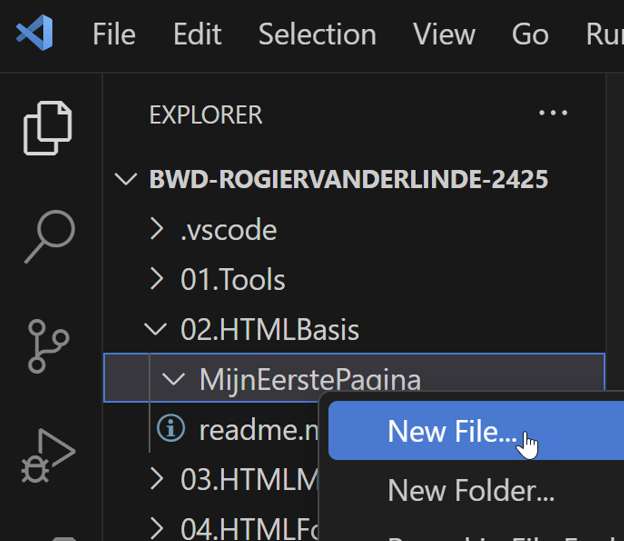
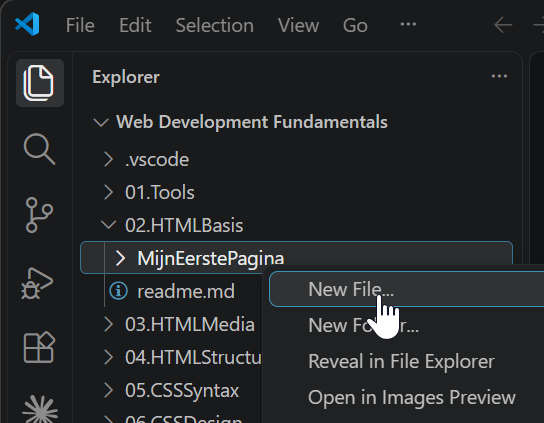
hoofdstuk 2 herwerkt

diff --git a/02_vscode.html b/02_vscode.html
@@ -74,53 +74,65 @@
          <li>ESLint</li>
          <li>HTML-validate</li>
          <li>htmltagwrap</li>
-         <li>Live Server</li>
+         <li>Live Preview</li>
          <li>Stylelint</li>
          <li>W3C Web Validator</li>
       </ol>
-      <p><img src="img/02_vscode/vscode extensies.png" alt="" class="w-400"></p>
+      <p><img src="img/02_vscode/vscode extensies.png" alt="" class="w-300"></p>
       <div class="tips" data-caption="☝🏾 let op">
          <p>
-            Deze extensies werken alleen als je ook de nodige node packages toevoegt aan je repository, zie <a href="02_vscode.html#packages-installeren">packages installeren</a>
+            Veel extensies werken alleen als je ook de nodige node packages toevoegt aan je repository, zie <a href="02_vscode.html#packages-installeren">packages installeren</a>
          </p>
       </div>
-      <h3>repository openen</h3>
+      <h3>github copilot verwijderen</h3>
+      <p>Github Copilot is een niet erg bruikbare AI-assistent (met een slechte rating), die je beter verwijdert:</p>
+      <p><img src="img/02_vscode/copilot-disable.png" alt="" class="w-700"></p>
+      <h3>werkmap openen</h3>
       <p>
-         Voor elk vak zul je een repository moeten maken, zie <a href="03_github.html#repository-opzetten">Repository opzetten</a>.
-         Als je oefeningen maakt, open je altijd eerst de <strong>volledige repository</strong> in VS Code. Het makkelijkste is via <strong>Verkenner</strong> of via <strong>Github Desktop</strong>:
+         Je opent nooit zomaar losse bestanden in VS code, maar een folder waarin je werkt &mdash; de <em class="em">werkmap</em> of <em class="em">working directory</em>. 
+         Voor elk vak zul je een <mark>boilerplate</mark> krijgen (te downloaden van Toledo): dit is een kant-en-klare mappenstructuur voor je oefeningen. 
+         Open altijd de <strong>volledige boilerplate</strong> in VS Code via het <em>File</em> menu: 
       </p>
       <figure>
-         <img src="img/02_vscode/repo openen verkenner.png" alt="" class="w-500">
-         <figcaption>methode 1: open via de rechtermuisknop in Verkenner</figcaption>
-      </figure>
-      <figure>
-         <img src="img/02_vscode/repo openen github desktop.png" alt="" class="w-700">
-         <figcaption>methode 2: open via Github Desktop</figcaption>
-      </figure>
-      <p>Je krijgt alle mappen te zien (screenshot voor Basic Web Development):</p>
-      <figure>
-         <img src="img/02_vscode/repo in vs code.png" alt="" class="w-700">
+         <img src="img/02_vscode/vs code open folder.png" alt="" class="w-400">
          <figcaption>alle mappen in VS Code</figcaption>
       </figure>
+      <p>
+         Je krijgt alle mappen te zien (screenshot voor Web Development Fundamentals). 
+         Uit veiligheid wordt de geopende folder niet zomaar vertrouwd. Maak deze folder trusted:
+      </p>
+      <figure>
+         <img src="img/02_vscode/trust folder.png" alt="" class="w-700">
+         <figcaption>folder vertrouwen</figcaption>
+      </figure>
+      <p>Je ziet tenslotte links alle submappen, samen met een paar configuratiebestanden:</p>
+      <figure>
+         <img src="img/02_vscode/vs code start.png" alt="" class="w-700">
+         <figcaption>folder vertrouwen</figcaption>
+      </figure>
+      <div class="tips" data-caption="☝🏾 opgelet">
+         <p>
+            De volledige mappenstructuur moet altijd zichtbaar zijn, anders kan je niet fatsoenlijk werken!
+         </p>
+      </div>
 
       <h3>packages installeren</h3>
       <p>
-         We hebben nu een aantal extensies als html-validate, stylelint en eslint geïnstalleerd.
-         Deze extensies hebben om te kunnen werken een aantal <mark>Node packages</mark> nodig. Dit zijn code libraries met specifieke functionaliteit.
-         Je repository bevat een bestand <strong>package.json</strong>, waarin alle nodige packages staan:
+         We hebben eerder een aantal extensies als html-validate, stylelint en eslint geïnstalleerd in VS Code.
+         Om te kunnen werken hebben ze een aantal <mark>Node packages</mark> nodig. Dit zijn code libraries met specifieke functionaliteit, die we zullen installeren in de working directory. 
+         Je boilerplate bevat een bestand <strong>package.json</strong>, waarin alle nodige packages opgelijst staan:
       </p>
-      <p><img src="img/03_github/package-json.png" alt="" class="w-500"></p>
-      <p>Installeer ze met het <code>npm install</code> commando in de Terminal (Terminal, new Terminal... of Shift-Ctrl-`). </p>
-      <p><img src="img/03_github/npm-install.png" alt="" class="w-700"></p>
-      <p>Opmerking: als je volgende foutmelding krijgt, run je eerst dit commando:</p>
-      <p><img src="img/03_github/running scripts foutmelding.jpg" alt="" class="w-800"></p>
-      <p>Het commando:</p>
+      <p><img src="img/02_vscode/package-json.png" alt="" class="w-500"></p>
+      <p>Open de Terminal (<em>Terminal</em>, <em>new Terminal...</em> of Shift-Ctrl-`), en installeer alle packages in je working directory met volgend commando:</p>
+      <pre class="language-cs prism-okaida"><code>npm install</code></pre>
+      <p>Het kan zijn dat je eerst volgende foutmelding krijgt:</p>
+      <p><img src="img/02_vscode/running scripts foutmelding.jpg" alt="" class="w-800"></p>
+      <p>Run dan dit commando, en voer daarna <code>npm install</code> opnieuw uit:</p>
       <pre class="language-cs prism-okaida"><code>Set-ExecutionPolicy -Scope CurrentUser -ExecutionPolicy RemoteSigned</code></pre>
+      <p>Samenvattende screenshot:</p>
+      <p><img src="img/02_vscode/npm install.png" alt="" class="w-800"></p>
       <p>Je ziet dat er een map <strong>node_modules</strong> bijgekomen is. Deze bevat alle packages uit package.json, plus alle packages die zij weer nodig hebben, de zgn. <mark>dependencies</mark>:</p>
-      <p><img src="img/03_github/node_modules.png" alt="" class="w-300"></p>
-      <p>Dit zijn er gemakkelijk een paar honderd! Dit zijn duizenden bestanden en tientallen megabytes die je eenvoudig kan herstellen door opnieuw <code>npm install</code> uit te voeren. We zullen de map <strong>node_modules</strong> daarom uitsluiten van versiebeheer (i.e. het wordt niet meegepushed naar Github.com) met deze regel in <strong>.gitignore</strong>:</p>
-      <p><img src="img/03_github/node_modules-ignore.png" alt="" class="w-250"></p>
-      <p>Je moet er alleen aan denken elke keer je een clone van de repository maakt (b.v. op een andere PC) opnieuw even <code>npm install</code> uit te voeren om de map <strong>node_modules</strong> te herstellen.</p>
+      <p><img src="img/02_vscode/node_modules.png" alt="" class="w-300"></p>
       <h3>uitleg configuratiebestanden</h3>
       <p>In de root van de boilerplate komen allerhande configuratiebestanden voor.</p>
       <p><img src="img/02_vscode/vscode configuratie.png" alt="" class="w-300"></p>
@@ -140,7 +152,7 @@
 
       <h2>Hoe oefeningen maken</h2>
       <p>Open altijd eerst je volledige repository in VS Code, zie <a href="#repository-openen">repository openen</a></p>
-      <h3>stap 1: maak de oefening aan</h3>
+      <h3>oefening aanmaken</h3>
       <p>Eerst moet je weten om <strong>welke les</strong> en wat de <strong>naam van de oefening</strong> is. Dit vind je terug in de opgave:</p>
       <figure>
          <img src="img/02_vscode/les en oefening.png" alt="" class="w-500">
@@ -173,7 +185,7 @@
          <img src="img/02_vscode/stap5.png" alt="" class="w-600">
          <figcaption>...en geef de pagina een titel</figcaption>
       </figure>
-      <h3>stap 2: werk de oefening uit</h3>
+      <h3>oefening uitwerken</h3>
       <p>Voeg nu alle mappen en bestanden toe die je nodig hebt voor deze oefening, typisch:</p>
       <ul>
          <li><em>img</em>: afbeeldingen (meestal meegegeven met de opgave)</li>
@@ -185,28 +197,33 @@
       </ul>
       <p>Werk tenslotte de opgave uit. Indien nodig, maak je nog extra submappen aan, b.v. voor afbeeldingen, CSS, fonts enz... VS Code herkent een git repository en geeft in kleur aan welke veranderingen er zijn sinds de laatste commit:</p>
       <figure>
-         <img src="img/03_github/vscode integratie.png" alt="" class="w-800">
+         <img src="img/02_vscode/vscode integratie.png" alt="" class="w-800">
       </figure>
-      <h3>stap 3: commit en push</h3>
-      <p>Open nu Github Desktop (zie <a href="03_github.html#commit-en-push">Commit en push</a>). Je ziet gelijkaardige kleurcodes met alle wijzigingen:</p>
+
+      <h3>live preview</h3>
+      <p>De <mark>Live Preview</mark> extensie opent je pagina in de browser; elke keer als je opslaat wordt de pagina automatisch bijgewerkt. Je vindt de knop rechtsboven (als een html pagina openstaat):</p>
       <figure>
-         <img src="img/03_github/github oefening commit.png" alt="" class="w-600">
+         <img src="img/02_vscode/live preview start.png" alt="" class="w-200">
+      </figure>
+      <p>De preview opent in een nieuw tabblad. Handiger is direct in de browser:</p>
+      <figure>
+         <img src="img/02_vscode/live preview extern.png" alt="" class="w-700">
+         <figcaption>correcte setup: code op je laptop, live server op een externe monitor</figcaption>
+      </figure>
+      <p>Je ziet je code en het resultaat dan apart, live gerefreshed:</p>
+      <figure>
+         <img src="img/02_vscode/live preview.png" alt="" class="w-700">
+         <figcaption>correcte setup: code op je laptop, live server op een externe monitor</figcaption>
       </figure>
       <p>
-         Geef een commit message, commit en push je de wijzigingen naar Github.com.
+         Standaard gebeurt de update elke toetsaanslag, wat hinderlijk kan zijn. 
+         Verander het bij instellingen (shortcut: <kbd>Ctrl ,</kbd>) zodat de update enkel bij het opslaan (shortcut: <kbd>Ctrl S</kbd>) gebeurt:
       </p>
       <figure>
-         <img src="img/02_vscode/commit push.png" alt="" class="w-1200">
-         <figcaption>commit mededeling, commit en push</figcaption>
+         <img src="img/02_vscode/live preview on save only.png" alt="" class="w-400">
+         <figcaption>correcte setup: code op je laptop, live server op een externe monitor</figcaption>
       </figure>
-      <p>Controleer zeker online op github.com eens of alles er goed op staat:</p>
-      <figure>
-         <img src="img/02_vscode/github online.png" alt="" class="w-600">
-      </figure>
-
-
-      <h2>Live previewen</h2>
-      <p>De <mark>Live Server</mark> opent je pagina in de browser; elke keer als je opslaat wordt de pagina automatisch bijgewerkt. Een voorbeeld van een correcte setup, met je code op je laptop en de live server op een externe monitor:</p>
+      <p>Een voorbeeld van een correcte setup, met je code op je laptop en de live server op een externe monitor:</p>
       <figure>
          <img src="img/02_vscode/laptop en monitor.jpg" alt="" class="w-800">
          <figcaption>correcte setup: code op je laptop, live server op een externe monitor</figcaption>

diff --git a/01_browser.html b/01_browser.html
@@ -61,7 +61,6 @@
          <li><a href="https://chrome.google.com/webstore/detail/colorzilla/bhlhnicpbhignbdhedgjhgdocnmhomnp?hl=nl">ColorZilla</a> - hiermee kan je met een pipet kleuren vinden op een webpagina</li>
          <li><a href="https://chrome.google.com/webstore/detail/lighthouse/blipmdconlkpinefehnmjammfjpmpbjk?hl=nl">Lighthouse</a> - analyseert performantie, compressie en algemene kwaliteit van webpagina's</li>
          <li><a href="https://chromewebstore.google.com/detail/wave-evaluation-tool/jbbplnpkjmmeebjpijfedlgcdilocofh">Wave</a> - analyseert hoe toegankelijk je webpagina is</li>
-         <li><a href="https://chromewebstore.google.com/detail/save-chatgpt-as-pdf/ccjfggejcoobknjolglgmfhoeneafhhm">Save ChatGPT as PDF</a> - exporteren van een chatGPT chat naar PDF</li>
          <li><a href="https://chromewebstore.google.com/detail/gofullpage-full-page-scre/fdpohaocaechififmbbbbbknoalclacl">GoFullPage</a> - handig om screenshots te nemen van webpagina's (optioneel)</li>
       </ul>
       <p>Als alles goed is, zou je ze rechtsboven moeten vinden onder het puzzel icoon, waar je ook kan kiezen welke je zichtbaar houdt op de toolbar:</p>
